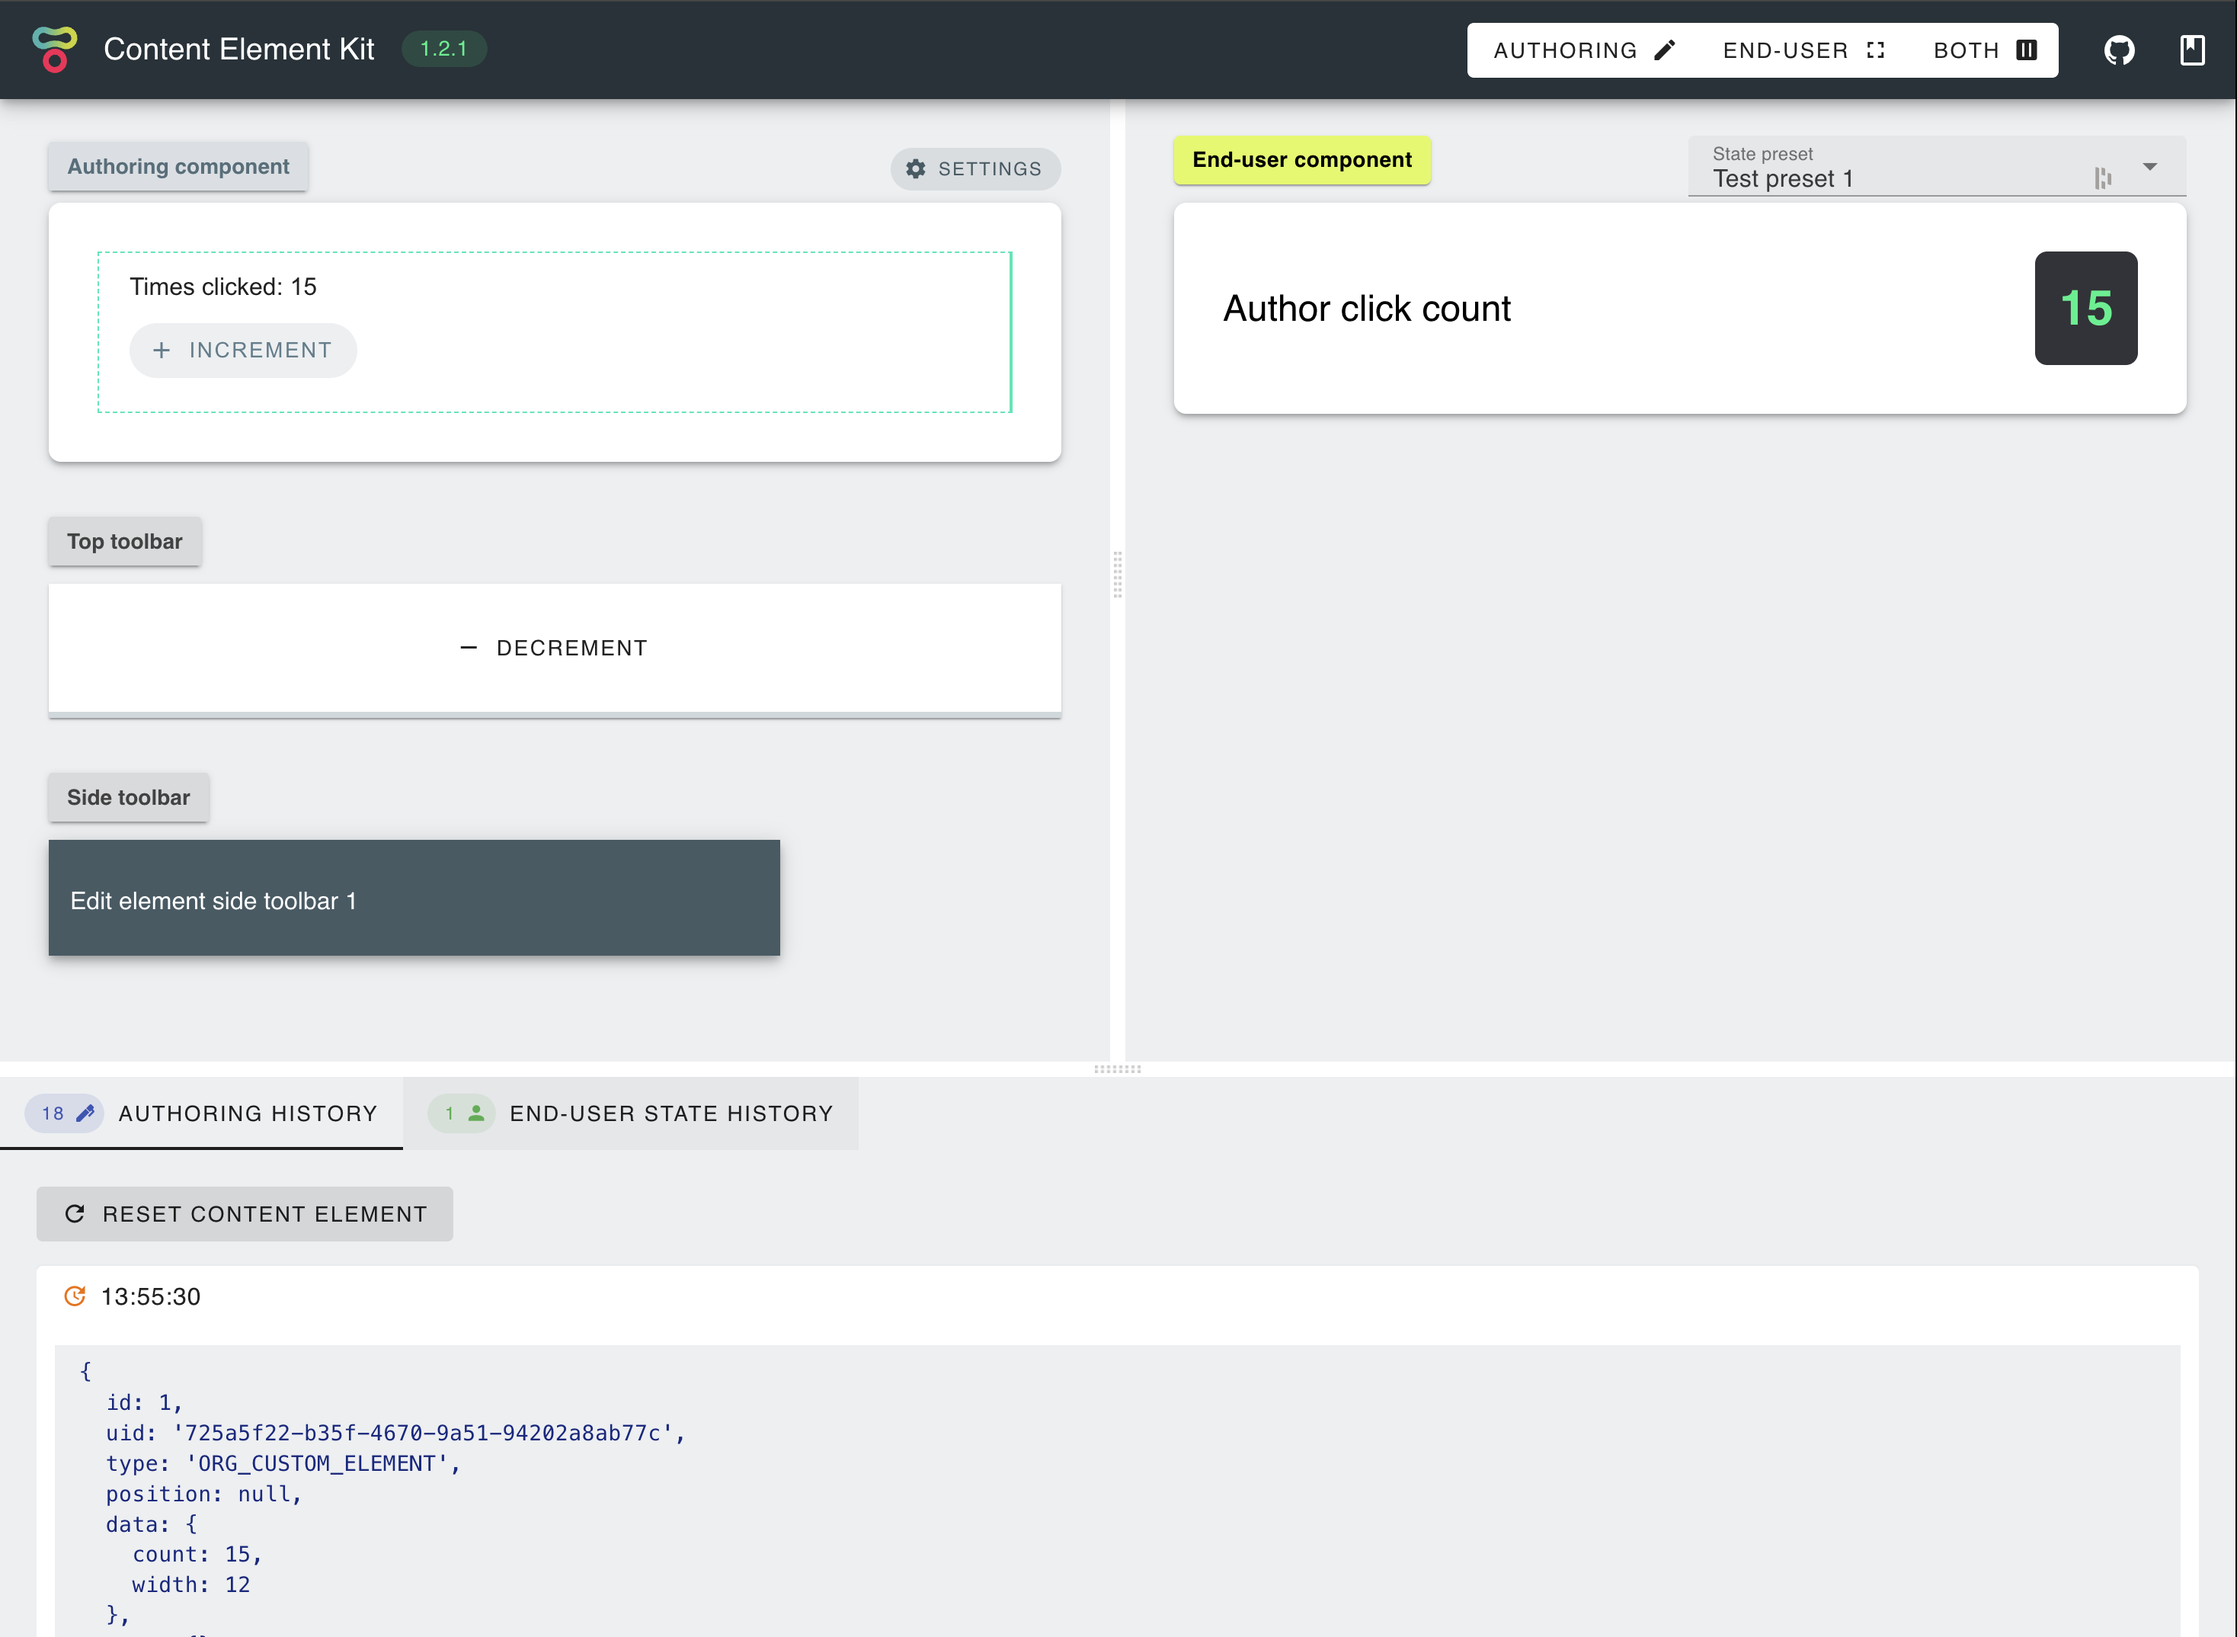
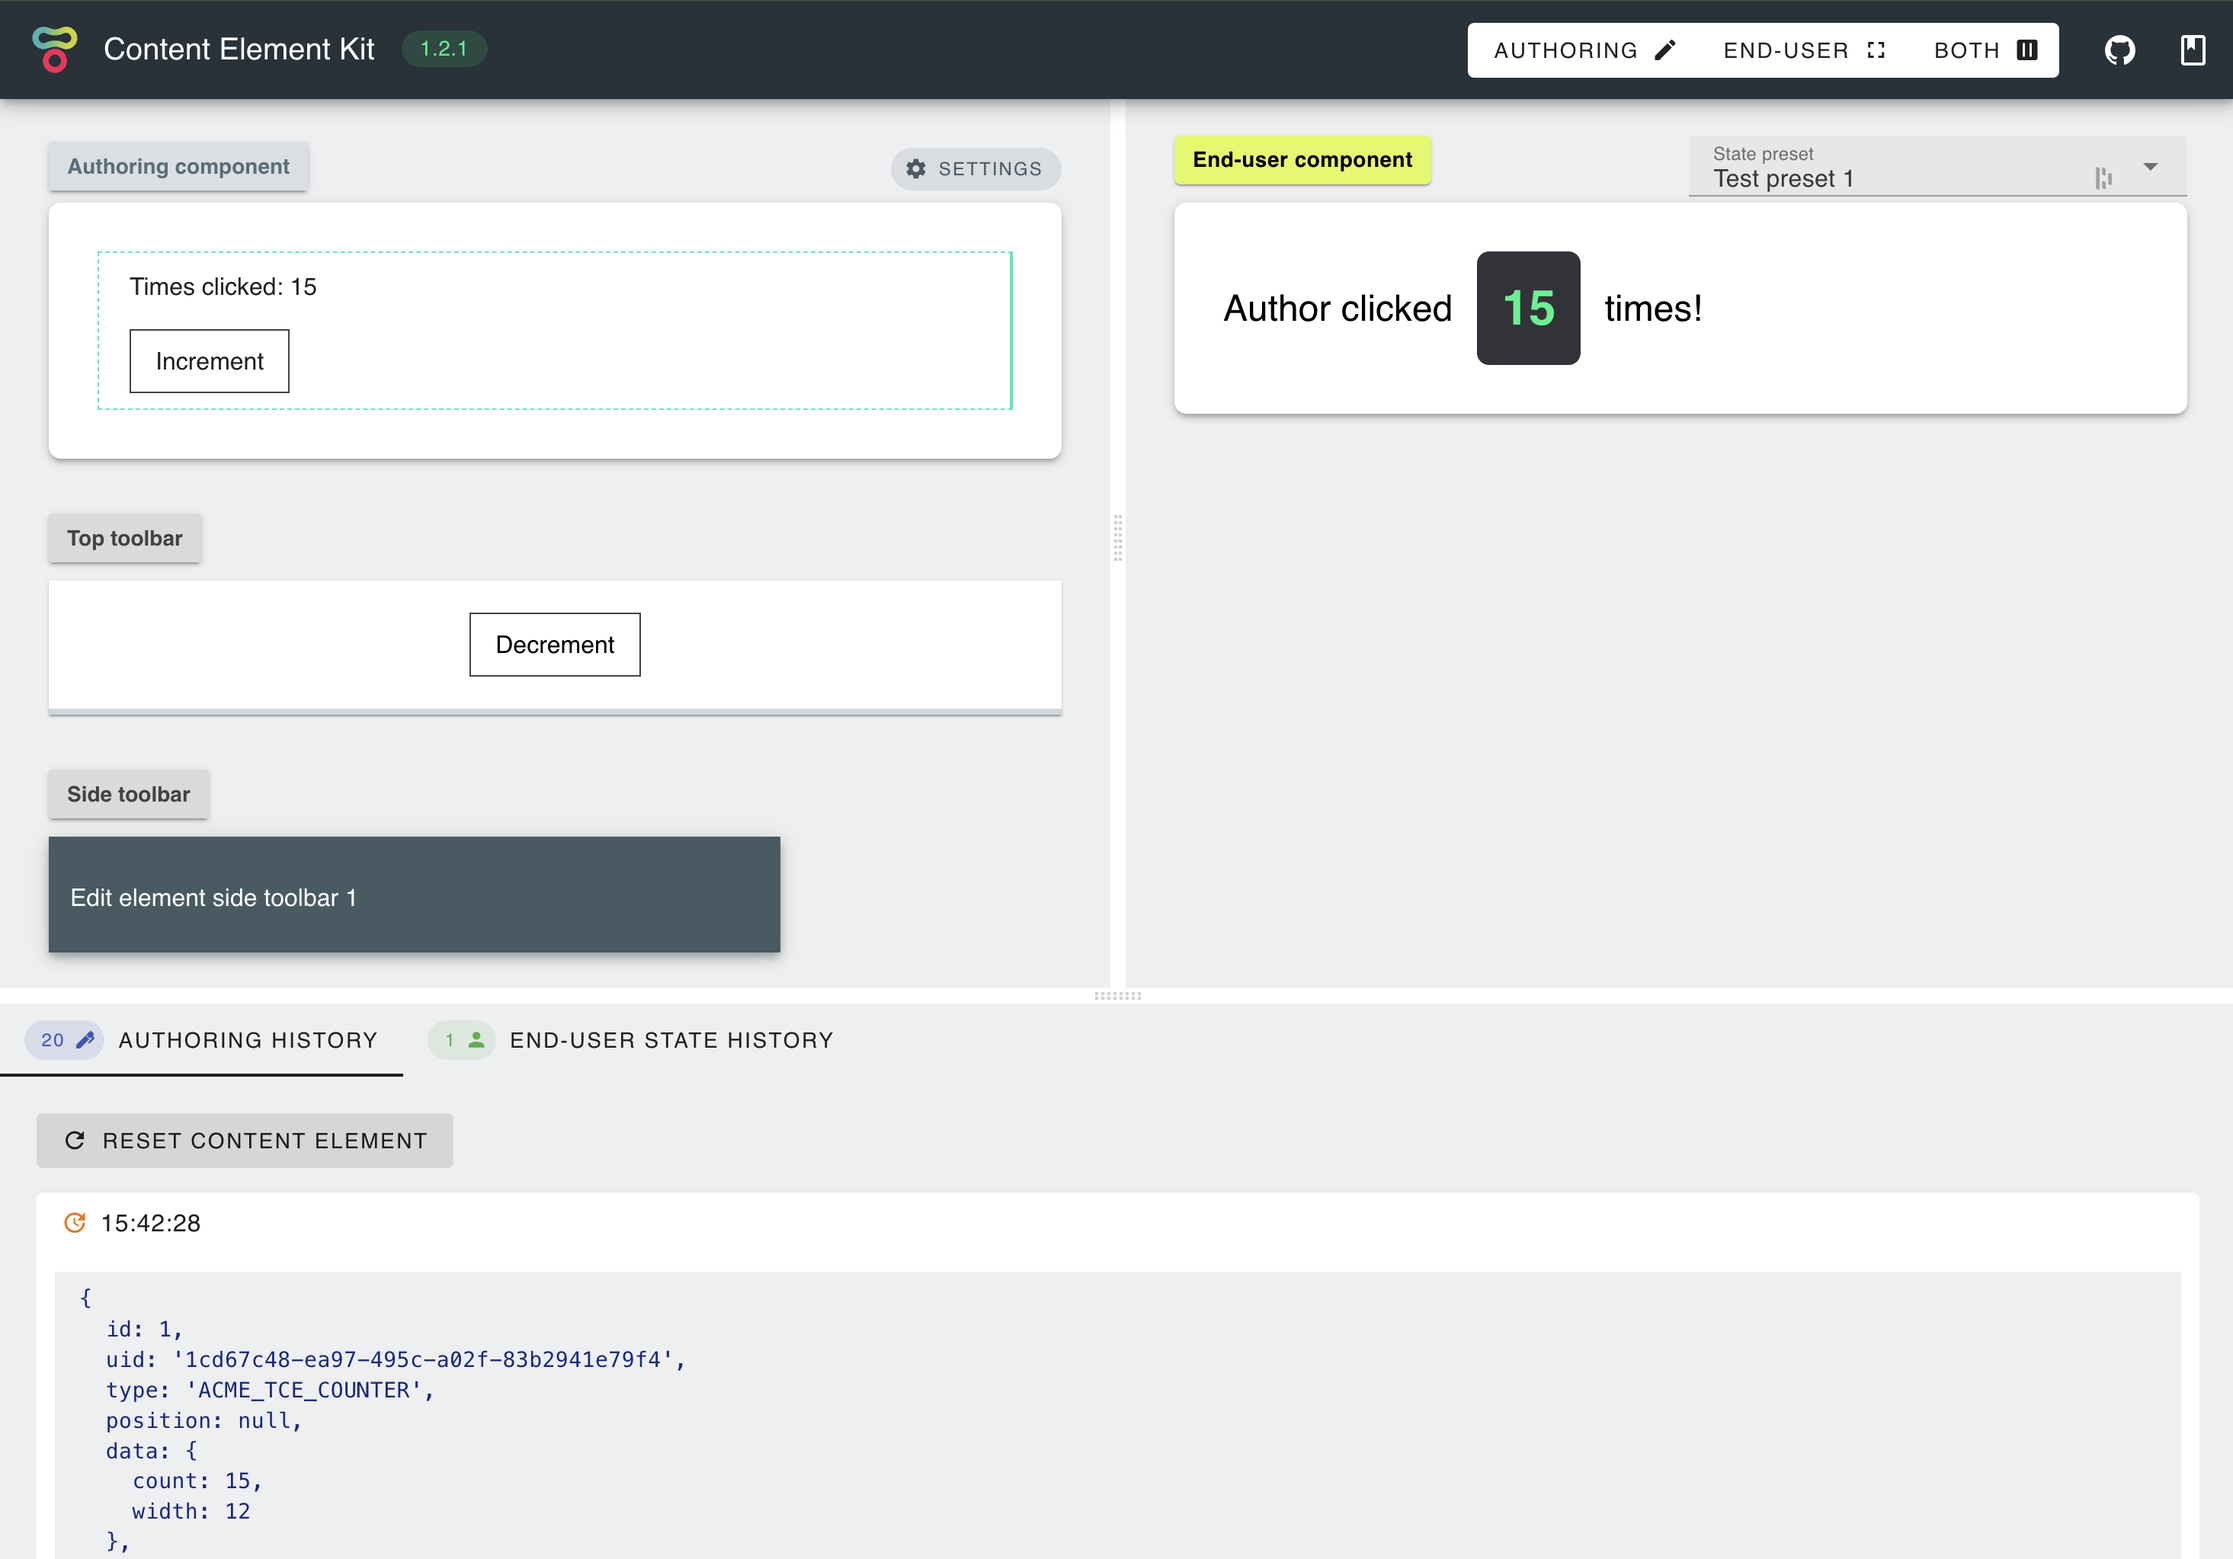
Update example code

diff --git a/docs/example.md b/docs/example.md
@@ -53,7 +53,7 @@ We also want to update the type definitions, to do so, open
 `packages/manifest/src/interfaces.ts` and update `ElementData` interface:
 
 ```ts
-export interface ElementData {
+export interface ElementData extends common.ElementConfig {
   count: number;
 }
 ```
@@ -80,10 +80,16 @@ for our simple counter:
   </div>
 </template>
 
-<script setup lang="ts">
+<script lang="ts" setup>
+import { defineEmits, defineProps } from 'vue';
 import { Element } from 'tce-manifest';
 
-const props = defineProps<{ element: Element; isFocused: boolean }>();
+const props = defineProps<{
+  element: Element;
+  isDragged: boolean;
+  isFocused: boolean;
+  isReadonly: boolean;
+}>();
 const emit = defineEmits(['save']);
 
 const increment = () => {
@@ -178,28 +184,21 @@ following code:
 ```vue
 <template>
   <div class="tce-root">
-    <div class="d-flex align-center text-h5">
-      Author clicked
-      <span class="counter">{{ data.count }}</span>
-      times!
-    </div>
+    Author clicked
+    <span class="counter">{{ element.data.count }}</span>
+    times!
   </div>
 </template>
 
 <script setup lang="ts">
-import { ElementData } from 'tce-manifest';
+import { Element } from 'tce-manifest';
 
-defineProps<{ data: ElementData }>();
+defineProps<{ element: Element }>();
 </script>
 
 <style scoped>
 .tce-root {
-  background-color: transparent;
-  margin-top: 1rem;
-  padding: 1rem;
-  border: 2px dashed #888;
-  font-family: Arial, Helvetica, sans-serif;
-  font-size: 1rem;
+  font-size: 1.5rem;
 }
 
 .counter {
